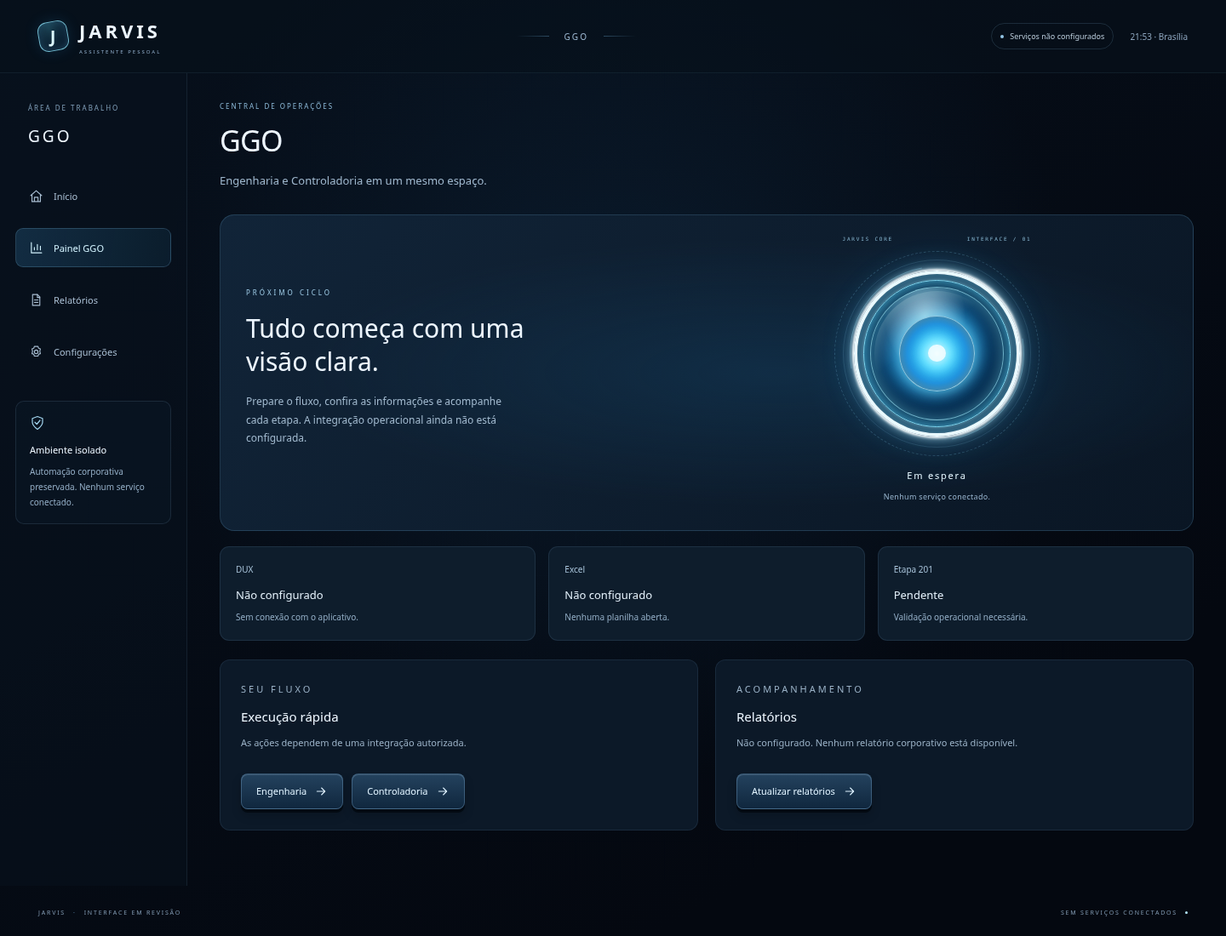
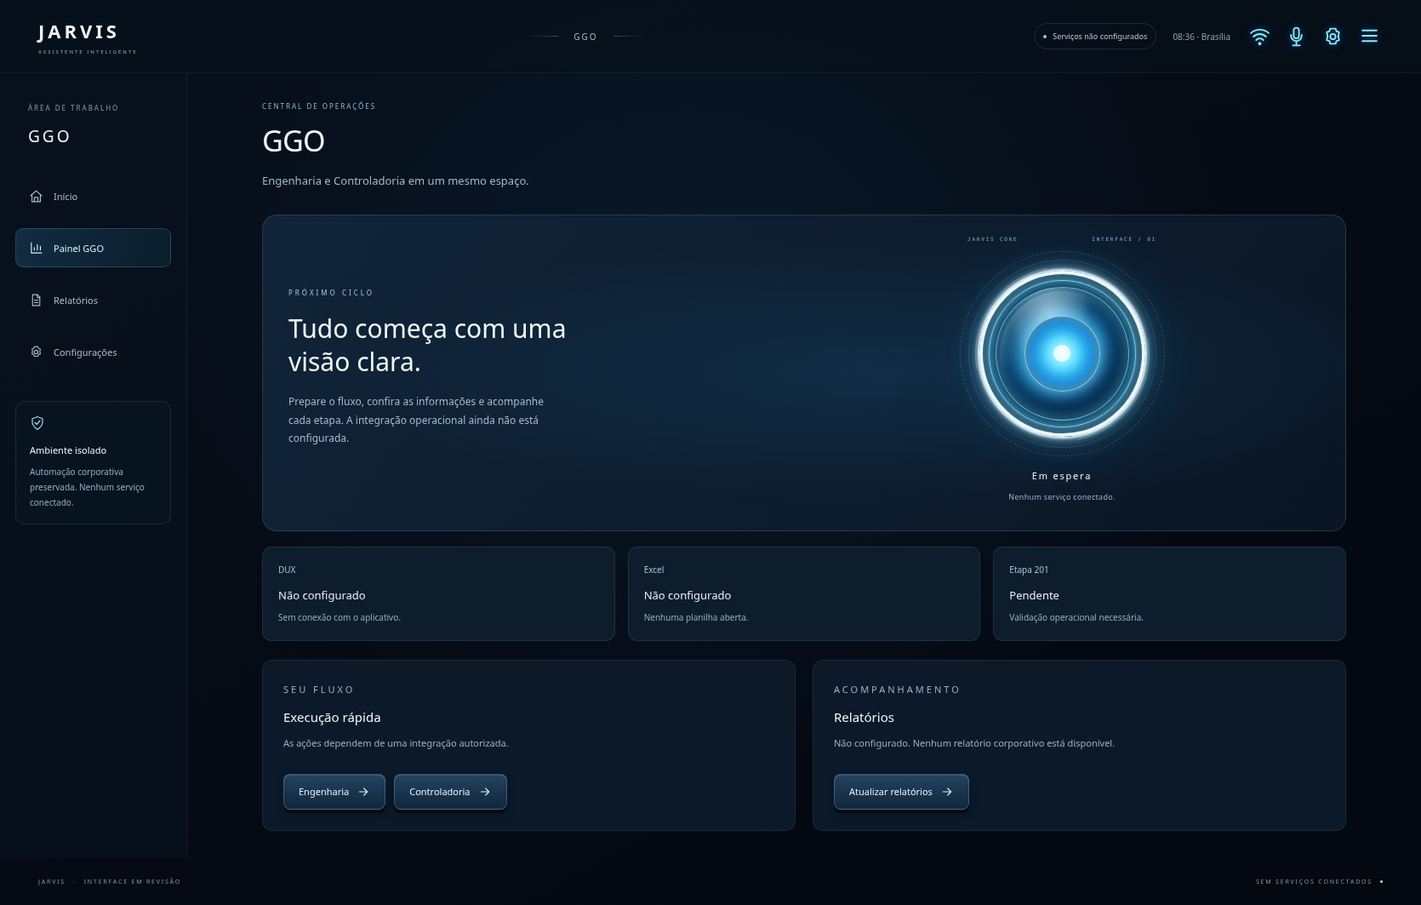
feat: aplicar referência visual aprovada à home Jarvis

diff --git a/interface-oficial/home-reference.css b/interface-oficial/home-reference.css
@@ -1,0 +1,128 @@
+/* Home baseada na referência visual enviada pelo proprietário. */
+.visually-hidden { position: absolute; width: 1px; height: 1px; margin: -1px; padding: 0; overflow: hidden; clip-path: inset(50%); white-space: nowrap; border: 0; }
+.brand-wordmark { display: block; font-size: inherit; font-weight: 600; }
+.header-tools { display: flex; align-items: center; gap: 12px; }
+.chrome-control { display: inline-flex; align-items: center; justify-content: center; width: 31px; height: 35px; padding: 3px; border: 0; border-radius: 5px; color: #8eeaff; background: transparent; }
+.chrome-control svg { width: 26px; height: 26px; stroke-width: 1.8; filter: drop-shadow(0 0 5px #04aaff80); }
+.chrome-control:hover:not(:disabled) { background: #00cfff16; color: #e0fbff; }
+.chrome-control:disabled { opacity: .65; cursor: default; }
+.window-control { display: none; }
+.areas-menu { position: relative; }
+.areas-menu > summary { cursor: pointer; list-style: none; }
+.areas-menu > summary::-webkit-details-marker { display: none; }
+.areas-menu > summary:focus-visible { outline: 2px solid #c9f4ff; outline-offset: 6px; }
+.areas-menu[open] > summary { color: #fff; background: #00bfff20; }
+.areas-menu nav { position: absolute; top: 49px; right: 0; width: min(320px, calc(100vw - 30px)); z-index: 30; display: grid; grid-template-columns: 1fr 1fr; gap: 12px; padding: 21px; background: #04121ff5; border: 1px solid #00cfff88; border-radius: 12px; box-shadow: 0 12px 55px #000c, 0 0 25px #007fff21; backdrop-filter: blur(12px); }
+.areas-menu nav > p { grid-column: 1 / -1; margin: 0 0 4px; color: #9de9ff; font-size: 10px; letter-spacing: 2px; }
+.areas-menu nav a { display: flex; align-items: center; min-height: 43px; padding: 11px; font-size: 12px; color: #e1f5ff; border: 1px solid #7ed9ff66; border-radius: 7px; background: linear-gradient(#123c56, #061a2d); box-shadow: inset 0 1px #c6faff28, 0 3px #02090f; }
+.areas-menu nav a:hover { background: linear-gradient(#1b5677, #0b2c45); }
+.areas-menu nav a:active { transform: translateY(2px); box-shadow: inset 0 1px #c6faff28; }
+.reference-frame { display: none; }
+
+body:has(#app[data-route="home"]) { background: #000307; }
+body:has(#app[data-route="home"]) .ambient-grid { display: none; }
+#app[data-route="home"] { background: radial-gradient(ellipse at 50% 34%, #005ba51a, transparent 49%), #000307; min-height: 100svh; }
+#app[data-route="home"] .reference-frame { display: block; position: fixed; inset: 0 0 5px; z-index: 0; pointer-events: none; }
+.reference-frame svg { width: 100%; height: 100%; overflow: visible; }
+.reference-frame .frame-mobile { display: none; }
+.frame-primary { stroke: #00b8fb; stroke-width: 2.1; vector-effect: non-scaling-stroke; fill: none; filter: drop-shadow(0 0 6px #008fff80); }
+.frame-secondary { stroke: #084575; stroke-width: 1.5; vector-effect: non-scaling-stroke; fill: none; opacity: .8; }
+.frame-light { position: absolute; display: block; background: linear-gradient(90deg, transparent, #008fff66 30%, #bbfaff 50%, #008fff66 70%, transparent); height: 2px; box-shadow: 0 0 9px #009dff, 0 0 20px #009dff80; }
+.light-logo { top: 11.8%; left: 5%; width: 19%; }
+.light-top { top: 8.5%; right: 7%; width: 15%; }
+.light-bottom { bottom: 1.9%; left: 44%; width: 13%; }
+.light-left { left: .8%; top: 69%; width: 2px; height: 8%; background: linear-gradient(transparent, #b4faff, transparent); }
+.light-right { right: .8%; top: 70%; width: 2px; height: 8%; background: linear-gradient(transparent, #b4faff, transparent); }
+#app[data-route="home"] .app-header { height: 105px; min-height: 105px; padding: 14px 4.4% 12px 7.25%; align-items: flex-start; border: 0; background: transparent; position: relative; z-index: 4; }
+#app[data-route="home"] .brand { margin-top: 0; letter-spacing: 2px; }
+#app[data-route="home"] .brand-wordmark { font-family: "Arial", "Segoe UI", sans-serif; font-size: clamp(34px, 3.25vw, 53px); line-height: 1; font-weight: 600; letter-spacing: 2px; color: #f2f9ff; text-shadow: 0 0 5px #e6f6ffb3, 0 0 15px #007dff85; }
+#app[data-route="home"] .brand small { font-size: clamp(12px, 1.25vw, 20px); font-weight: 400; margin-top: 6px; letter-spacing: 1.3px; color: #d7f1ff; text-shadow: 0 0 7px #39aaff70; }
+#app[data-route="home"] .header-center,
+#app[data-route="home"] .service-badge,
+#app[data-route="home"] #clock-label,
+#app[data-route="home"] .app-footer { display: none; }
+#app[data-route="home"] .header-status { margin-top: 6px; }
+#app[data-route="home"] .header-tools { gap: 15px; }
+#app[data-route="home"] .chrome-control { width: 31px; height: 35px; }
+#app[data-route="home"] .window-control { display: inline-flex; }
+#app[data-route="home"] #main { position: relative; z-index: 1; flex: initial; }
+.home-screen { --core-size: min(65svh, 650px, 78vw); display: flex; flex-direction: column; align-items: center; max-width: none; min-height: calc(100svh - 105px); padding: 0 25px 52px; position: relative; }
+.home-screen .reactor-stage { margin: -75px auto 0; max-width: none; }
+.home-screen .reactor-topline { display: none; }
+.home-screen .reactor { width: var(--core-size); height: var(--core-size); margin: 0; }
+.home-screen .reactor::before { inset: -3%; background: radial-gradient(circle, #009cff35 25%, #005dff25 45%, transparent 70%); opacity: 1; filter: blur(8px); }
+.home-screen .reactor::after { inset: 50% -2% auto; height: 1px; width: auto; border: 0; border-radius: 0; background: linear-gradient(90deg, transparent, #149bff44, #b5f3ff44, #149bff44, transparent); box-shadow: 0 0 5px #009dff35; }
+.home-screen .reactor-aura { position: absolute; inset: 2%; border-radius: 50%; border: 1px solid #066dad1f; box-shadow: inset 0 0 25px #007dff0b; }
+.home-screen .orbit-outer { inset: 4%; border: 0; background: conic-gradient(from -15deg, #00e7ff 0deg 24deg, transparent 24deg 66deg, #00dcff 66deg 90deg, transparent 90deg 142deg, #00dcff 142deg 166deg, transparent 166deg 222deg, #00dcff 222deg 246deg, transparent 246deg 360deg); mask: radial-gradient(farthest-side, transparent calc(100% - 4px), #000 0); filter: drop-shadow(0 0 8px #00aaff); animation-duration: 90s; }
+.home-screen .orbit-inner { inset: 13%; border: 1px solid #00d5ff; border-top-color: #00d5ff; border-bottom-color: #00d5ff; transform: none; box-shadow: 0 0 35px #007bff12; }
+.home-screen .reactor-shell { inset: 18.5%; border: 0; background: conic-gradient(from 0deg, #f5feff 0deg 45deg, #20a2ff55 45deg 58deg, #fff 58deg 106deg, #20a2ff55 106deg 119deg, #fff 119deg 180deg, #20a2ff55 180deg 193deg, #fff 193deg 250deg, #20a2ff55 250deg 263deg, #fff 263deg 315deg, #20a2ff55 315deg 328deg, #fff 328deg 360deg); mask: radial-gradient(farthest-side, transparent calc(100% - 8px), #000 0); filter: drop-shadow(0 0 5px #fff) drop-shadow(0 0 13px #00aaff); box-shadow: none; }
+.home-screen .reactor-rim { inset: 16.7%; border: 1px solid #148aff99; box-shadow: 0 0 35px #007affaa, inset 0 0 26px #007aff88; }
+.home-screen .reactor-orb { inset: 24.2%; border: 1px solid #d5f6ff; background: radial-gradient(circle, #fff 0%, #fff 22%, #f3fcff 34%, #c9f0ff 49%, #7dd4ff 66%, #3ca2fa 84%, #167bcf 100%); box-shadow: 0 0 43px #219dffbb, inset 0 0 25px #d3f5ff66; animation: idle-pulse 5s ease-in-out infinite; }
+.home-screen .reactor-glint { inset: 21.5%; border-radius: 50%; background: none; border: 1px solid #e2f8ffba; box-shadow: 0 0 32px #42aaffaa, inset 0 0 26px #7dcfff80; }
+.home-screen .reactor-core { inset: 32%; border: 0; background: radial-gradient(circle, #fff 30%, #ffffff8c 70%, transparent); filter: blur(7px); box-shadow: none; opacity: .75; }
+.home-screen .reactor-mark { inset: 27%; background: radial-gradient(circle, #fff9, transparent 70%); box-shadow: none; opacity: .3; }
+.home-screen .reactor-readout { position: absolute; width: 1px; height: 1px; overflow: hidden; clip-path: inset(50%); }
+.home-screen .microphone-zone { margin: -62px 0 0; position: relative; z-index: 2; }
+.mic-signal { display: flex; align-items: center; justify-content: center; gap: 29px; }
+.home-screen .mic-button { height: 103px; width: 103px; border: 3px solid #94eeff; background: radial-gradient(circle at 50% 40%, #06304c, #001326 75%); box-shadow: inset 0 0 10px #007dff, 0 0 4px #fff, 0 0 15px #008fff, 0 0 30px #007fff66; }
+.home-screen .mic-button svg { width: 49px; height: 49px; stroke-width: 1.65; filter: drop-shadow(0 0 3px #00bdff); }
+.audio-wave { display: flex; height: 47px; align-items: center; gap: 8px; color: #00dbff; }
+.audio-wave:last-child { transform: scaleX(-1); }
+.audio-wave i { width: 3px; height: var(--bar-height); border-radius: 50%; background: #00dfff; box-shadow: 0 0 7px #00baff85; }
+.home-screen .mic-label { font-size: clamp(20px, 1.75vw, 29px); font-weight: 500; margin-top: 15px; color: #e4f6ff; text-shadow: 0 0 5px #088cff44; }
+.home-screen .mic-status { font-size: 9px; color: #a0bfd1; margin-top: 7px; }
+.primary-ggo { display: flex; align-items: center; justify-content: center; gap: 26px; width: min(420px, 80vw); min-height: 87px; margin-top: 24px; position: relative; border: 3px solid #8defff; border-radius: 55px; color: #f1fbff; background: radial-gradient(ellipse at 50% 90%, #008cff25, transparent 70%), #001323; box-shadow: inset 0 0 12px #008cffb3, 0 0 3px #fff, 0 0 12px #008cff, 0 0 30px #008cff44, 0 5px 0 #001a2d; text-shadow: 0 0 5px #00afff70; font-size: 40px; font-weight: 500; letter-spacing: 2px; transition: transform .16s, box-shadow .16s; }
+.primary-ggo::before { content: ''; position: absolute; width: 160%; height: 2px; top: 50%; left: -30%; background: linear-gradient(90deg, transparent, #008dff44 15%, transparent 35%, transparent 65%, #008dff44 85%, transparent); pointer-events: none; }
+.primary-ggo svg { width: 45px; height: 45px; stroke-width: 1.65; filter: drop-shadow(0 0 4px #00cfff); }
+.primary-ggo:hover { transform: translateY(-2px); box-shadow: inset 0 0 19px #008cffcc, 0 0 5px #fff, 0 0 18px #00bfff, 0 0 42px #008cff66, 0 7px 0 #001a2d; }
+.primary-ggo:active { transform: translateY(3px); }
+
+@media (max-width:1100px) {
+  .header-status .service-badge, .header-status #clock-label { display: none; }
+  #app[data-route="home"] .header-tools { gap: 10px; }
+  #app[data-route="home"] .app-header { padding-left: 5%; padding-right: 4%; }
+}
+@media (max-width:800px) {
+  #app[data-route="home"] .window-control { display: none; }
+  #app[data-route="home"] .brand-wordmark { font-size: 34px; }
+  #app[data-route="home"] .brand small { font-size: 12px; }
+  .home-screen { --core-size: min(66svh, 570px, 88vw); }
+  .home-screen .reactor-stage { margin-top: -44px; }
+  .audio-wave { gap: 5px; }
+}
+@media (max-width:560px) {
+  .reference-frame .frame-desktop { display: none; }
+  .reference-frame .frame-mobile { display: block; }
+  #app[data-route="home"] .app-header { height: 100px; min-height: 100px; padding: 23px 18px 10px; }
+  #app[data-route="home"] .brand-wordmark { font-size: 28px; }
+  #app[data-route="home"] .brand small { font-size: 9px; letter-spacing: 1px; }
+  .header-tools, #app[data-route="home"] .header-tools { gap: 8px; }
+  .header-tools .connection-control, .header-tools .voice-control { display: none; }
+  .chrome-control, #app[data-route="home"] .chrome-control { width: 29px; height: 30px; }
+  .chrome-control svg { width: 23px; height: 23px; }
+  .home-screen { --core-size: min(85vw, 440px); min-height: calc(100svh - 100px); padding: 0 15px 55px; }
+  .home-screen .reactor-stage { margin-top: -7px; }
+  .home-screen .reactor::before { inset: -2%; }
+  .home-screen .microphone-zone { margin-top: -20px; }
+  .home-screen .mic-button { height: 80px; width: 80px; border-width: 2px; }
+  .home-screen .mic-button svg { width: 38px; height: 38px; }
+  .mic-signal { gap: 16px; }
+  .audio-wave { gap: 4px; width: 78px; overflow: hidden; }
+  .audio-wave i { min-width: 2px; width: 2px; height: calc(var(--bar-height) * .65); }
+  .home-screen .mic-label { font-size: 21px; margin-top: 14px; }
+  .primary-ggo { width: min(300px, 78vw); min-height: 68px; font-size: 31px; margin-top: 27px; gap: 20px; }
+  .primary-ggo svg { width: 35px; height: 35px; }
+  .primary-ggo::before { width: 112%; left: -6%; }
+  .areas-menu nav { right: -2px; }
+}
+@media (max-width:380px) {
+  #app[data-route="home"] .app-header { padding-inline: 15px; }
+  #app[data-route="home"] .brand-wordmark { font-size: 26px; }
+  #app[data-route="home"] .brand small { font-size: 8px; letter-spacing: .7px; }
+  .home-screen .mic-button { width: 72px; height: 72px; }
+  .mic-signal { gap: 10px; }
+  .audio-wave { width: 64px; }
+}
+@media (prefers-reduced-motion:reduce) {
+  .home-screen *, .home-screen *::before, .home-screen *::after { animation: none !important; transition: none !important; }
+}

diff --git a/interface-oficial/index.html b/interface-oficial/index.html
@@ -8,16 +8,36 @@
   <meta name="description" content="Interface Jarvis para revisão visual, sem serviços operacionais conectados.">
   <title>JARVIS</title>
   <link rel="stylesheet" href="styles.css">
+  <link rel="stylesheet" href="home-reference.css">
   <script type="module" src="app.js"></script>
 </head>
 <body>
   <a class="skip-link" href="#main">Ir para o conteúdo</a>
   <div class="ambient-grid" aria-hidden="true"></div>
   <div id="app" data-route="home">
+    <div class="reference-frame" aria-hidden="true">
+      <svg class="frame-desktop" viewBox="0 0 1600 900" preserveAspectRatio="none">
+        <path class="frame-secondary" d="M80 1 14 68V790L62 838H355L392 883H1510L1586 800V82L1555 49M33 129 55 108"/>
+        <path class="frame-primary" d="M1 105H405Q412 105 420 96L497 15Q501 11 508 11H1104Q1110 11 1115 16L1171 72Q1175 76 1182 76H1543L1575 109V787L1520 851H1302L1271 884H396L363 851H79L33 805V130L55 109"/>
+        <path class="frame-secondary" d="M88 13H105M1441 853H1537L1575 816M43 817 84 863H329M701 881H894"/>
+      </svg>
+      <svg class="frame-mobile" viewBox="0 0 400 850" preserveAspectRatio="none"><path class="frame-primary" d="M24 1 7 25V748L28 790H83L99 831H307L322 791H373L393 749V84L379 60H290L275 13H225L195 99H1"/><path class="frame-secondary" d="M17 15 3 34V753L24 800H81L94 839H311L327 800H379L397 753V89L385 70H294"/></svg>
+      <span class="frame-light light-logo"></span><span class="frame-light light-top"></span>
+      <span class="frame-light light-bottom"></span><span class="frame-light light-left"></span><span class="frame-light light-right"></span>
+    </div>
     <header class="app-header">
-      <a class="brand" href="#home" aria-label="Jarvis, tela inicial"><span class="brand-emblem" aria-hidden="true"><span>J</span></span><span>JARVIS<small>ASSISTENTE PESSOAL</small></span></a>
+      <a class="brand" href="#home" aria-label="Jarvis, tela inicial"><span class="brand-copy"><strong class="brand-wordmark">JARVIS</strong><small>ASSISTENTE INTELIGENTE</small></span></a>
       <div class="header-center"><span class="header-rule"></span><span id="nav-current">Início</span><span class="header-rule"></span></div>
-      <div class="header-status"><span class="service-badge"><i aria-hidden="true"></i>Serviços não configurados</span><time id="clock-label"></time></div>
+      <div class="header-status"><span class="service-badge"><i aria-hidden="true"></i>Serviços não configurados</span><time id="clock-label"></time>
+        <div class="header-tools">
+          <button type="button" class="chrome-control connection-control" data-unconfigured="Conectividade" aria-label="Status de conexão: não configurado" title="Serviços não configurados"><svg viewBox="0 0 24 24" aria-hidden="true"><path d="M2 8a15 15 0 0 1 20 0M5 12a10 10 0 0 1 14 0M8 16a5 5 0 0 1 8 0"/><circle cx="12" cy="20" r="1"/></svg></button>
+          <a class="chrome-control voice-control" href="#configuracoes" aria-label="Configurações de voz" title="Microfone não configurado"><svg viewBox="0 0 24 24" aria-hidden="true"><rect x="9" y="2" width="6" height="12" rx="3"/><path d="M6 10v1a6 6 0 0 0 12 0v-1m-6 7v5m-4 0h8"/></svg></a>
+          <a class="chrome-control" href="#configuracoes" aria-label="Configurações" title="Configurações"><svg viewBox="0 0 24 24" aria-hidden="true"><path d="m9 3-1 3-3 1 1 5-1 4 3 1 1 3h6l1-3 3-1-1-4 1-5-3-1-1-3Z"/><circle cx="12" cy="12" r="3"/></svg></a>
+          <details id="areas-menu" class="areas-menu"><summary class="chrome-control" aria-label="Abrir áreas do Jarvis" title="Áreas do Jarvis"><svg viewBox="0 0 24 24" aria-hidden="true"><path d="M4 6h16M4 12h16M4 18h16"/></svg></summary><nav aria-label="Áreas do Jarvis"><p>ÁREAS DO JARVIS</p><a href="#ggo">GGO</a><a href="#automacao">Automação</a><a href="#indicadores">Indicadores</a><a href="#relatorios">Relatórios</a><a href="#agenda">Agenda</a><a href="#configuracoes">Configurações</a></nav></details>
+          <button class="chrome-control window-control" type="button" disabled aria-label="Minimizar janela: indisponível no navegador" title="Disponível no aplicativo desktop"><svg viewBox="0 0 24 24" aria-hidden="true"><path d="M3 12h18"/></svg></button>
+          <button class="chrome-control window-control" type="button" disabled aria-label="Fechar janela: indisponível no navegador" title="Disponível no aplicativo desktop"><svg viewBox="0 0 24 24" aria-hidden="true"><path d="m5 5 14 14M19 5 5 19"/></svg></button>
+        </div>
+      </div>
     </header>
     <main id="main" tabindex="-1"><div id="view-root"></div></main>
     <footer class="app-footer"><span>JARVIS <i>·</i> INTERFACE EM REVISÃO</span><span>SEM SERVIÇOS CONECTADOS <span class="footer-led" aria-hidden="true"></span></span></footer>

diff --git a/interface-oficial/app.js b/interface-oficial/app.js
@@ -39,16 +39,6 @@ function icon(name, className = 'icon') {
   return svg;
 }
 
-function navButton(label, route, name = route) {
-  const link = element('a', 'tile-button');
-  link.href = `#${route}`;
-  link.dataset.routeLink = route;
-  const symbol = element('span', 'tile-icon');
-  symbol.append(icon(name));
-  link.append(symbol, element('span', 'tile-label', label), icon('arrow', 'icon tile-arrow'));
-  return link;
-}
-
 function featureButton(label, feature = label) {
   const button = element('button', 'button button-secondary', label);
   button.type = 'button';
@@ -96,29 +86,35 @@ function reactor() {
 
 function microphone() {
   const wrap = element('div', 'microphone-zone');
+  const signal = element('div', 'mic-signal');
+  const wave = () => {
+    const bars = element('span', 'audio-wave');
+    bars.setAttribute('aria-hidden', 'true');
+    for (const height of [2, 3, 4, 8, 12, 19, 29, 43, 34, 23, 13, 6, 3]) {
+      const bar = element('i');
+      bar.style.setProperty('--bar-height', `${height}px`);
+      bars.append(bar);
+    }
+    return bars;
+  };
   const link = element('a', 'mic-button');
   link.href = '#configuracoes';
   link.setAttribute('aria-label', 'Configurar microfone');
   link.append(icon('microphone'));
-  wrap.append(link, element('strong', 'mic-label', 'Seu comando começa aqui.'),
+  signal.append(wave(), link, wave());
+  wrap.append(signal, element('strong', 'mic-label', 'Fale comigo, senhor.'),
     element('span', 'mic-status', 'Microfone não configurado'));
   return wrap;
 }
 
 function homeScreen() {
   const screen = element('section', 'home-screen');
-  const title = element('div', 'home-heading');
-  title.append(element('p', 'home-kicker', 'SEU ASSISTENTE PESSOAL'));
-  const mainTitle = element('h1', '', 'JARVIS');
+  const mainTitle = element('h1', 'visually-hidden', 'JARVIS');
   mainTitle.tabIndex = -1;
-  title.append(mainTitle, element('p', 'home-description', 'Uma nova forma de estar no controle.'));
-  const actions = element('nav', 'home-actions');
-  actions.setAttribute('aria-label', 'Áreas do Jarvis');
-  for (const [label, route] of [['GGO', 'ggo'], ['Automação', 'automacao'], ['Indicadores', 'indicadores'],
-    ['Relatórios', 'relatorios'], ['Agenda', 'agenda'], ['Configurações', 'configuracoes']]) {
-    actions.append(navButton(label, route));
-  }
-  screen.append(title, reactor(), actions, microphone());
+  const ggo = element('a', 'primary-ggo');
+  ggo.href = '#ggo';
+  ggo.append(icon('ggo'), element('span', '', 'GGO'));
+  screen.append(mainTitle, reactor(), microphone(), ggo);
   return screen;
 }
 
@@ -253,6 +249,7 @@ function updateState(value) {
 function render(focus = true) {
   const route = routeFromHash(window.location.hash);
   if (dialog.open) dialog.close();
+  document.getElementById('areas-menu').open = false;
   visualState = 'idle';
   app.dataset.route = route;
   document.getElementById('nav-current').textContent = getScreenTitle(route);
@@ -266,11 +263,12 @@ function render(focus = true) {
   }
 }
 
-root.addEventListener('click', (event) => {
+app.addEventListener('click', (event) => {
   const choice = event.target.closest('[data-state-choice]');
   if (choice) { updateState(choice.dataset.stateChoice); return; }
   const unavailable = event.target.closest('[data-unconfigured]');
   if (!unavailable) return;
+  document.getElementById('areas-menu').open = false;
   document.getElementById('feature-title').textContent = 'Não configurado';
   document.getElementById('feature-message').textContent = `${unavailable.dataset.unconfigured} depende de uma integração autorizada. Esta interface não executa ações no DUX, Excel, GGO ou em outros serviços.`;
   dialog.showModal();
@@ -280,6 +278,17 @@ document.querySelector('.skip-link').addEventListener('click', (event) => {
   document.getElementById('main').focus();
 });
 document.getElementById('feature-close').addEventListener('click', () => dialog.close());
+const areasMenu = document.getElementById('areas-menu');
+areasMenu.addEventListener('click', (event) => {
+  if (event.target.closest('a[href^="#"]')) areasMenu.open = false;
+});
+document.addEventListener('keydown', (event) => {
+  if (event.key === 'Escape' && areasMenu.open) {
+    event.preventDefault();
+    areasMenu.open = false;
+    areasMenu.querySelector('summary').focus();
+  }
+});
 window.addEventListener('hashchange', () => render());
 
 const clockFormat = new Intl.DateTimeFormat('pt-BR', {

diff --git a/docs/INTERFACE_OFICIAL.md b/docs/INTERFACE_OFICIAL.md
@@ -4,9 +4,10 @@ Nova home e painel GGO preparados em uma camada web isolada, para revisão da
 interface oficial. A aplicação do notebook e sua automação não estão disponíveis
 neste checkout. Nenhum arquivo da pasta corporativa foi acessado ou alterado.
 
-As duas imagens aprovadas na conversa com ChatGPT não estão anexadas à issue.
-Elas foram solicitadas ao usuário. O visual atual segue a descrição textual;
-a reprodução fiel das referências continua pendente de recebê-las.
+A referência da tela inicial foi recebida na conversa e aplicada: moldura azul
+recortada, núcleo azul/branco, microfone com ondas decorativas, frase
+“Fale comigo, senhor.” e botão GGO principal. A imagem específica do painel GGO
+ainda não foi disponibilizada; sua reprodução fiel continua pendente.
 
 ![Home JARVIS com núcleo azul e anel branco](images/jarvis-oficial-home.png)
 
@@ -21,6 +22,7 @@ automação, testes Python e workflow GGO.
 | --- | --- |
 | `interface-oficial/index.html` | Shell acessível, cabeçalho, conteúdo e diálogo de serviço ausente. |
 | `interface-oficial/styles.css` | Tema LED, botões 3D, seis estados visuais, responsividade e redução de movimento. |
+| `interface-oficial/home-reference.css` | Composição da home conforme a imagem: moldura, anéis, microfone, botão GGO e menu do cabeçalho. |
 | `interface-oficial/core.js` | Rotas permitidas, estados e títulos; funções puras sem DOM ou serviços. |
 | `interface-oficial/app.js` | Componentes reutilizáveis de reator, navegação, botões, cartões e telas. |
 | `tests-ui/` | Testes unitários e de navegador e servidor estático local de revisão. |
@@ -33,10 +35,16 @@ desenvolvimento, fixada no lockfile.
 
 ## Navegação e estados
 
-A home se chama **JARVIS**, com núcleo azul LED, anel branco, seis botões 3D e
-microfone em destaque na parte inferior. Os destinos são `#ggo`, `#automacao`,
+A home se chama **JARVIS**, com núcleo azul LED/branco, anel segmentado e
+microfone em destaque na parte inferior. O botão GGO é a ação principal;
+os seis destinos continuam acessíveis pelo menu “Áreas do Jarvis” no cabeçalho.
+Os destinos são `#ggo`, `#automacao`,
 `#indicadores`, `#relatorios`, `#agenda` e `#configuracoes`; voltar/avançar do
 navegador e links diretos funcionam. Rotas desconhecidas apresentam a home.
+O menu funciona por teclado e fecha com Escape, devolvendo o foco ao acionador.
+Os símbolos de minimizar/fechar reproduzem o desenho, mas ficam desabilitados no
+navegador; nenhum comando de janela nativa inexistente é executado. Conectividade
+e áudio permanecem não configurados, independentemente do brilho decorativo.
 
 O painel GGO tem menu lateral, círculo central, status, execução rápida e
 relatórios. DUX/Excel aparecem como **Não configurado**, e a Etapa 201 permanece
@@ -90,8 +98,9 @@ npx playwright install chromium
 npm test
 ```
 
-`npm test` executa 5 testes unitários de rotas/estados e 12 testes de navegador:
-home, seis destinos, hash/voltar/avançar, fallback, teclado/foco, atalho de conteúdo,
+`npm test` executa 5 testes unitários de rotas/estados e 15 testes de navegador:
+home, seis destinos no menu, CTA GGO, Escape do menu, conexão não configurada, hash/voltar/avançar,
+fallback, teclado/foco, atalho de conteúdo,
 seis estados, microfone sem áudio, serviços ausentes, mobile, movimento reduzido
 e funcionamento sem rede após o carregamento. Cada caso de navegador confere
 ausência de erros JavaScript e requisições externas.
@@ -116,6 +125,6 @@ Nenhuma migração, escrita em produção ou alteração da pasta original preci
 desfeita. O PR é separado e empilhado sobre o PR #3; abandonar a nova pasta/branch
 de revisão não modifica aquela interface.
 
-Pendências: receber as duas referências para ajuste visual fiel, revisar o layout
+Pendências: receber a referência específica do painel GGO, revisar o layout
 e definir contratos autorizados para voz e demais serviços. Conectar DUX, Excel,
 GGO, microfone ou sincronização é trabalho futuro e não está habilitado nesta UI.
